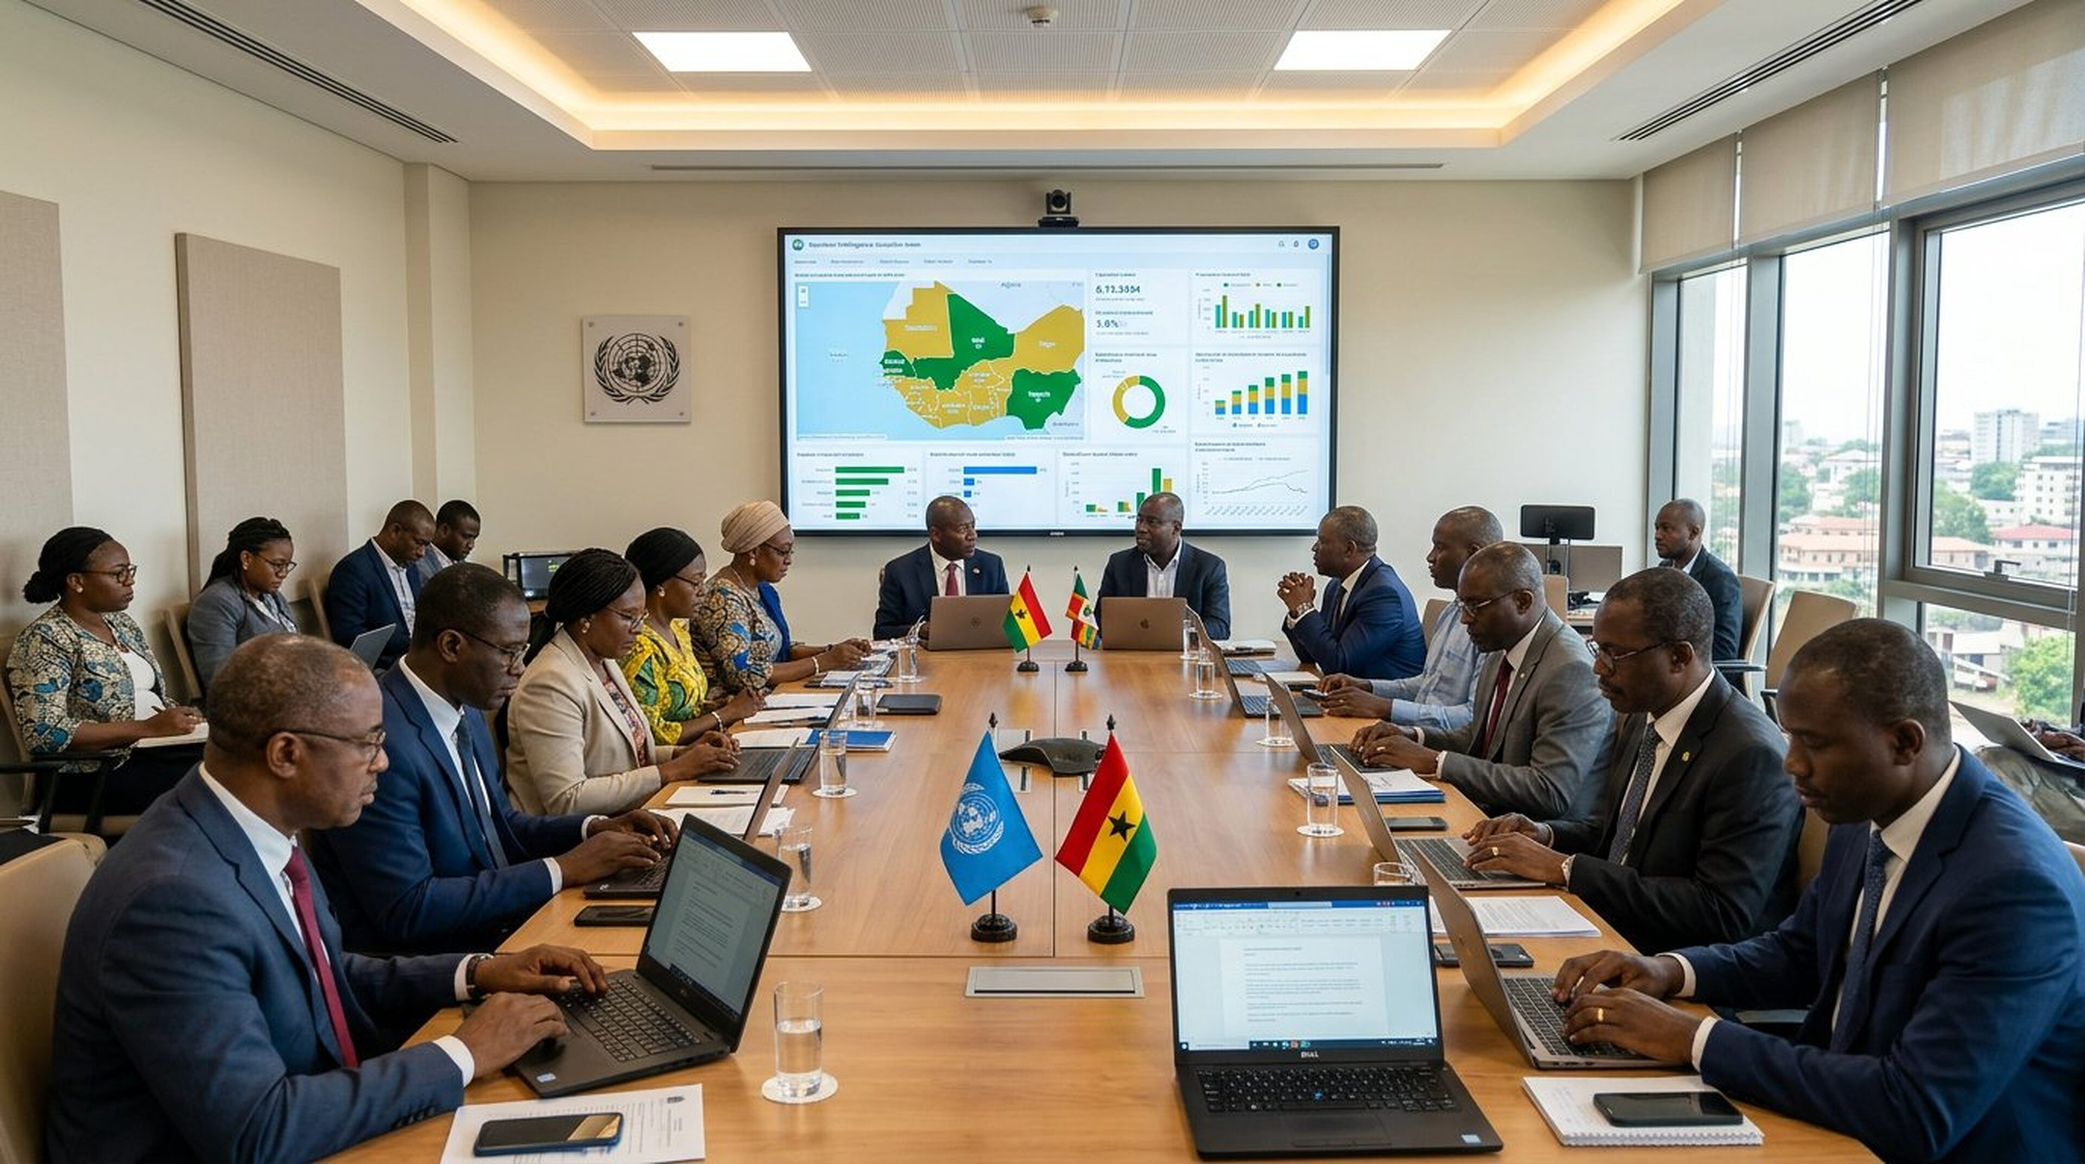
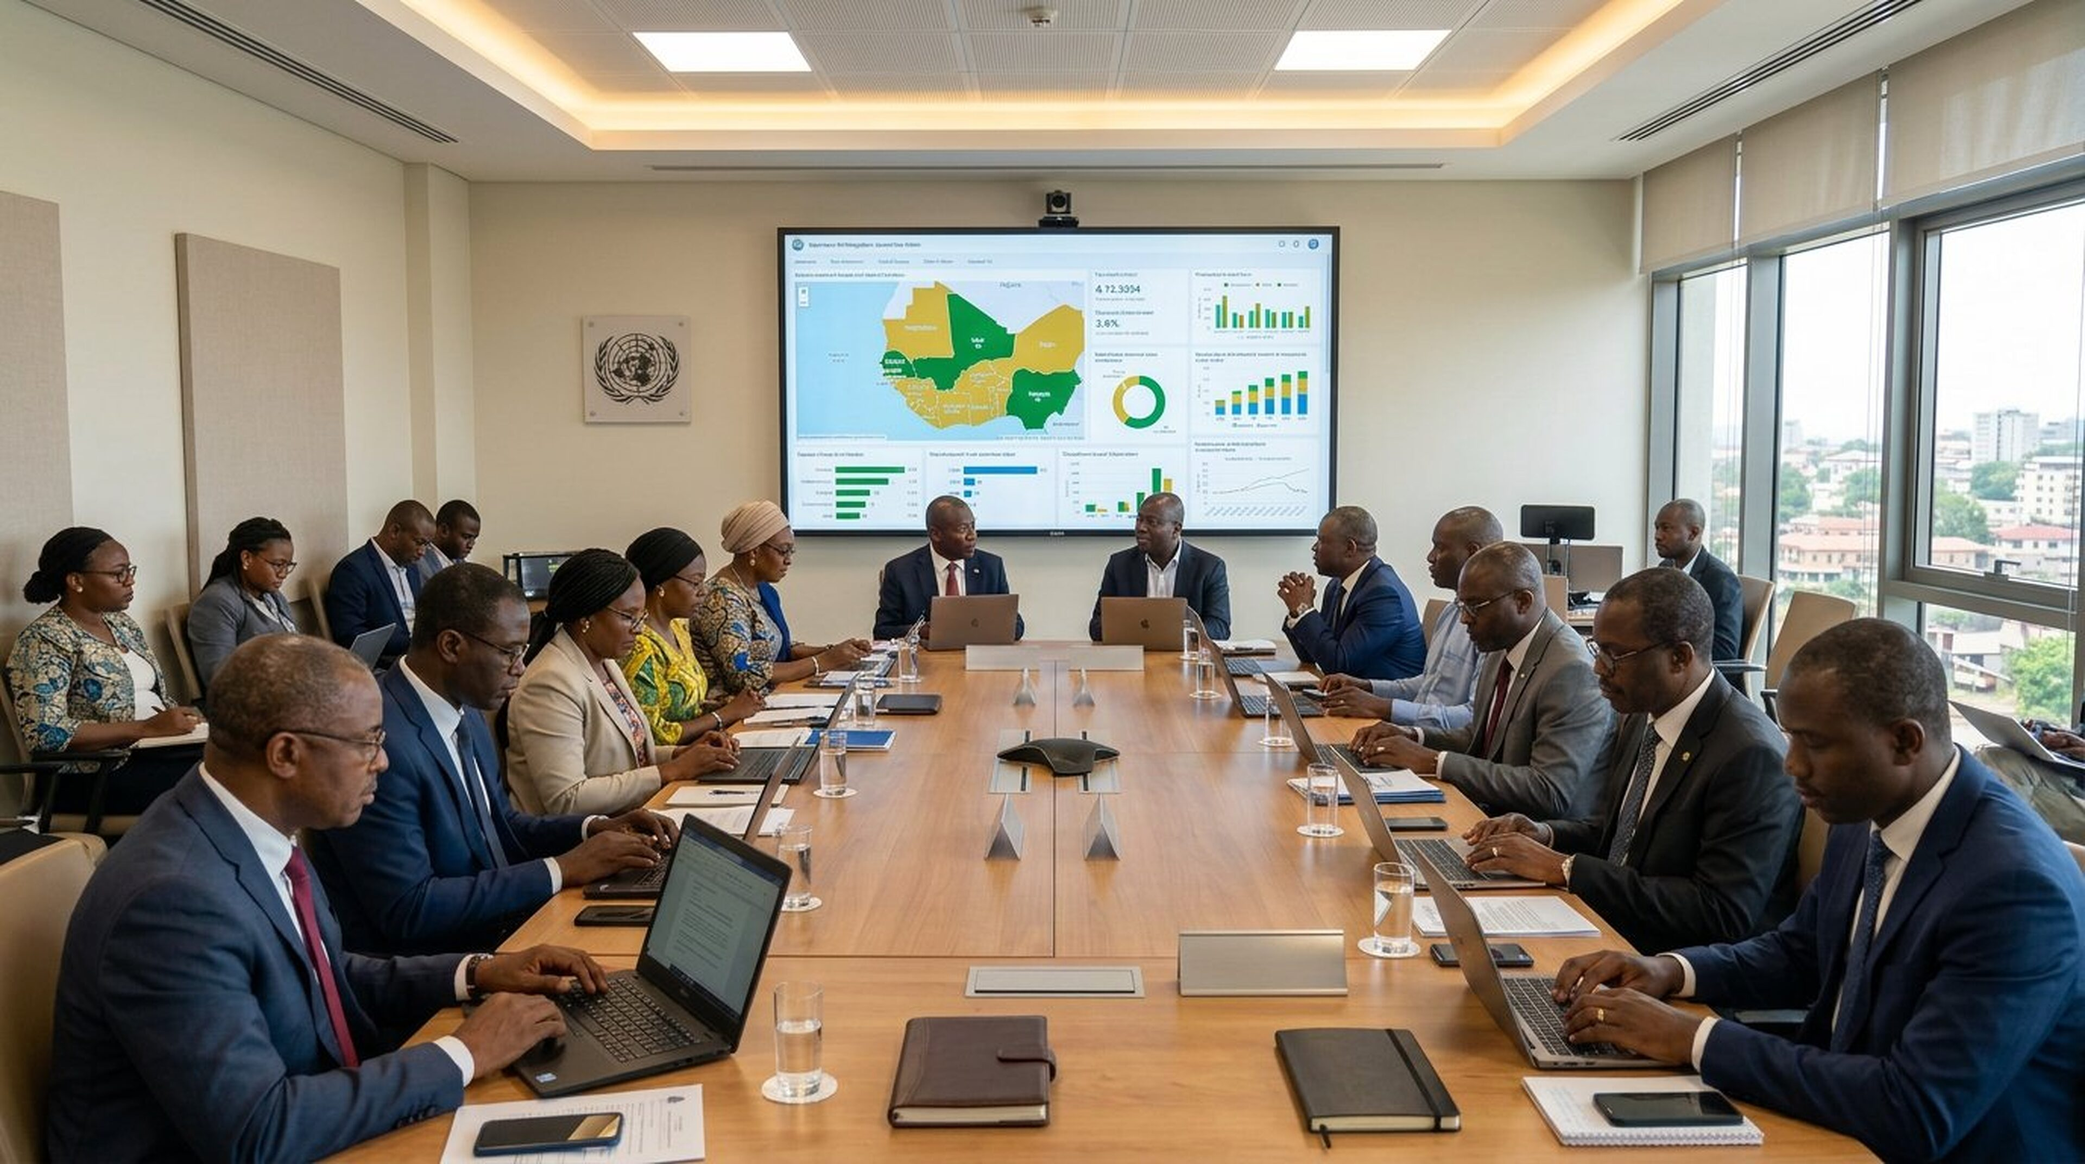
Stakeholders v3: photoreal documentary family (keep AR holograms); governments without any flag
- citizens: regenerated as a true documentary photograph (real skin texture, lived-in kitchen, film grain) keeping the connected-food AR holograms.
- governments: all flags removed via seamless edit of the approved scene (no country mentioned); emblem plaque kept for international organisations.
- Cache busted via ?v=3 (EN+FR), srcset citizens 1408w, alts updated. Text unchanged.

diff --git a/fr/ecosystem.html b/fr/ecosystem.html
@@ -13,6 +13,6 @@ footer{padding:42px 0 22px;background:#04150e;color:#9eb5a9}.foot{display:grid;g
 @media(max-width:900px){.links{display:none}.heroGrid,.cloud,.loop{grid-template-columns:1fr}.art{order:-1;height:420px}.grid,.teamGrid{grid-template-columns:1fr 1fr}.arch{grid-template-columns:1fr}.foot{grid-template-columns:1fr 1fr}}
 @media(max-width:600px){.grid,.teamGrid{grid-template-columns:1fr}.hero{padding:70px 0}.hero h1{font-size:46px}.hero p{font-size:16px}.ring{width:310px;height:310px}.core{width:210px;height:210px}.coreIn{width:135px;height:135px}.sat{display:none}.section{padding:70px 0}.ctaBox{padding:38px 20px}.foot{grid-template-columns:1fr}.copy{flex-direction:column}}
[1 lines of base64/hex data omitted]
-<section class="section dark" id="users"><div class="wrap"><div class="head"><div class="kicker">Acteurs</div><h2>Des besoins différents. Une seule couche de données.</h2></div><div class="grid"><div class="card stake" data-stake="citizens"><figure class="stMedia"><img class="stImg" src="../assets/img/stake-citizens.jpg?v=2" srcset="../assets/img/stake-citizens.jpg?v=2 1376w, ../assets/img/stake-citizens-4k.jpg?v=2 3840w" sizes="(max-width:600px) 92vw, (max-width:900px) 46vw, 380px" alt="Vue photoréaliste d'une famille ouest-africaine partageant un repas équilibré et coloré à la maison, des hologrammes verts au-dessus de chaque plat reliant les aliments à leur application nutritionnelle sur un téléphone." loading="lazy" decoding="async"><span class="stNum" aria-hidden="true"></span><span class="stTag" aria-hidden="true"></span></figure><div class="stBody"><div class="ico">👥</div><h3>Citoyens</h3><p>Individus, parents, familles et enfants avec des parcours nutritionnels personnalisés.</p></div></div><div class="card stake" data-stake="governments"><figure class="stMedia"><img class="stImg" src="../assets/img/stake-governments.jpg?v=2" srcset="../assets/img/stake-governments.jpg?v=2 1376w, ../assets/img/stake-governments-4k.jpg?v=2 3840w" sizes="(max-width:600px) 92vw, (max-width:900px) 46vw, 380px" alt="Vue photoréaliste d'une salle de situation nutritionnelle gouvernementale lumineuse à lumière blanche naturelle, un grand écran de tableaux de bord et des officiels assis avec les drapeaux des Nations Unies et des organisations partenaires." loading="lazy" decoding="async"><span class="stNum" aria-hidden="true"></span><span class="stTag" aria-hidden="true"></span></figure><div class="stBody"><div class="ico">🏛</div><h3>Gouvernements</h3><p>Centre de commandement santé, intelligence agricole et tableaux de bord nutritionnels de la population.</p></div></div><div class="card stake" data-stake="science"><figure class="stMedia"><img class="stImg" src="../assets/img/stake-science.jpg" srcset="../assets/img/stake-science.jpg 1376w, ../assets/img/stake-science-4k.jpg 3840w" sizes="(max-width:600px) 92vw, (max-width:900px) 46vw, 380px" alt="Vue photoréaliste de chercheurs en nutrition étudiant, dans un laboratoire lumineux, un graphe de preuves lumineux reliant aliments, nutriments et résultats de santé." loading="lazy" decoding="async"><span class="stNum" aria-hidden="true"></span><span class="stTag" aria-hidden="true"></span></figure><div class="stBody"><div class="ico">🔬</div><h3>Science</h3><p>Chercheurs, universités et laboratoires connectés aux preuves et aux jeux de données approuvés.</p></div></div><div class="card stake" data-stake="professionals"><figure class="stMedia"><img class="stImg" src="../assets/img/stake-professionals.jpg" srcset="../assets/img/stake-professionals.jpg 1376w, ../assets/img/stake-professionals-4k.jpg 3840w" sizes="(max-width:600px) 92vw, (max-width:900px) 46vw, 380px" alt="Vue photoréaliste d'une nutritionniste en clinique présentant à une patiente un tableau de bord nutritionnel vert sur tablette." loading="lazy" decoding="async"><span class="stNum" aria-hidden="true"></span><span class="stTag" aria-hidden="true"></span></figure><div class="stBody"><div class="ico">🩺</div><h3>Professionnels</h3><p>Nutritionnistes, diététiciens, cliniques et hôpitaux avec accès autorisé aux données des patients.</p></div></div></div></div></section>
+<section class="section dark" id="users"><div class="wrap"><div class="head"><div class="kicker">Acteurs</div><h2>Des besoins différents. Une seule couche de données.</h2></div><div class="grid"><div class="card stake" data-stake="citizens"><figure class="stMedia"><img class="stImg" src="../assets/img/stake-citizens.jpg?v=3" srcset="../assets/img/stake-citizens.jpg?v=3 1408w, ../assets/img/stake-citizens-4k.jpg?v=3 3840w" sizes="(max-width:600px) 92vw, (max-width:900px) 46vw, 380px" alt="Vue photoréaliste d'une famille ouest-africaine partageant un repas équilibré et coloré à la maison, des hologrammes verts au-dessus de chaque plat reliant les aliments à leur application nutritionnelle sur un téléphone." loading="lazy" decoding="async"><span class="stNum" aria-hidden="true"></span><span class="stTag" aria-hidden="true"></span></figure><div class="stBody"><div class="ico">👥</div><h3>Citoyens</h3><p>Individus, parents, familles et enfants avec des parcours nutritionnels personnalisés.</p></div></div><div class="card stake" data-stake="governments"><figure class="stMedia"><img class="stImg" src="../assets/img/stake-governments.jpg?v=3" srcset="../assets/img/stake-governments.jpg?v=3 1376w, ../assets/img/stake-governments-4k.jpg?v=3 3840w" sizes="(max-width:600px) 92vw, (max-width:900px) 46vw, 380px" alt="Vue photoréaliste d'une salle de situation nutritionnelle gouvernementale lumineuse à lumière blanche naturelle, un grand écran de tableaux de bord et des officiels assis aux côtés de partenaires des organisations internationales, une plaque emblème des organisations internationales au mur." loading="lazy" decoding="async"><span class="stNum" aria-hidden="true"></span><span class="stTag" aria-hidden="true"></span></figure><div class="stBody"><div class="ico">🏛</div><h3>Gouvernements</h3><p>Centre de commandement santé, intelligence agricole et tableaux de bord nutritionnels de la population.</p></div></div><div class="card stake" data-stake="science"><figure class="stMedia"><img class="stImg" src="../assets/img/stake-science.jpg" srcset="../assets/img/stake-science.jpg 1376w, ../assets/img/stake-science-4k.jpg 3840w" sizes="(max-width:600px) 92vw, (max-width:900px) 46vw, 380px" alt="Vue photoréaliste de chercheurs en nutrition étudiant, dans un laboratoire lumineux, un graphe de preuves lumineux reliant aliments, nutriments et résultats de santé." loading="lazy" decoding="async"><span class="stNum" aria-hidden="true"></span><span class="stTag" aria-hidden="true"></span></figure><div class="stBody"><div class="ico">🔬</div><h3>Science</h3><p>Chercheurs, universités et laboratoires connectés aux preuves et aux jeux de données approuvés.</p></div></div><div class="card stake" data-stake="professionals"><figure class="stMedia"><img class="stImg" src="../assets/img/stake-professionals.jpg" srcset="../assets/img/stake-professionals.jpg 1376w, ../assets/img/stake-professionals-4k.jpg 3840w" sizes="(max-width:600px) 92vw, (max-width:900px) 46vw, 380px" alt="Vue photoréaliste d'une nutritionniste en clinique présentant à une patiente un tableau de bord nutritionnel vert sur tablette." loading="lazy" decoding="async"><span class="stNum" aria-hidden="true"></span><span class="stTag" aria-hidden="true"></span></figure><div class="stBody"><div class="ico">🩺</div><h3>Professionnels</h3><p>Nutritionnistes, diététiciens, cliniques et hôpitaux avec accès autorisé aux données des patients.</p></div></div></div></div></section>
 <section class="section light"><div class="wrap"><div class="head"><div class="kicker">Intelligence gouvernementale</div><h2>Voir le système alimentaire à l'échelle de la population.</h2></div><div class="grid"><div class="card"><div class="ico">MINISTÈRE DE LA SANTÉ</div><h3>Centre de commandement santé</h3><p>Indicateurs de malnutrition, anémie, diabète, hypertension, obésité, cancer, maladies rénales et cardiovasculaires.</p></div><div class="card"><div class="ico">AGRICULTURE</div><h3>Centre d'intelligence alimentaire</h3><p>Production, consommation, besoins nutritionnels, déficits et analyse géographique.</p></div><div class="card"><div class="ico">SIG</div><h3>Intelligence spatiale</h3><p>Pays → région → district → communauté → établissement ou zone de production.</p></div></div></div></section>
 <section class="section dark"><div class="wrap"><div class="head"><div class="kicker">La confiance dès la conception</div><h2>Accès basé sur les rôles et contrôle au niveau national.</h2><p>L'architecture cible comprend le contrôle d'accès par rôles, la gestion du consentement, la minimisation des données, le chiffrement, les journaux d'audit, la pseudonymisation et l'isolation des environnements.</p></div></div></section><footer><div class="wrap foot"><div><b style="font-size:21px;color:#fff">NUTRI.N°1</b><p style="font-size:12px">Infrastructure africaine de l'intelligence alimentaire et nutritionnelle — évoluant vers une Plateforme durable d'agro-transformation et de nutrition en Afrique de l'Ouest.</p></div><div><h4>Plateforme</h4><a href="platform.html">Nutrition numérique</a><a href="intelligence.html">Base de connaissances alimentaire africaine</a><a href="ecosystem.html">Acteurs</a></div><div><h4>Entreprises</h4><a href="agribusiness.html">Agro-industrie</a><a href="team.html">Équipe</a><a href="index.html#contact">Contact</a></div></div><div class="wrap copy"><span>© 2026 NUTRI.N°1</span><span>Conçue en Afrique de l’Ouest • Pensée pour l’Afrique</span></div></footer><script>const o=new IntersectionObserver(e=>e.forEach(x=>x.isIntersecting&&(x.target.style.opacity=1)),{threshold:.1});document.querySelectorAll(".card,.box,.person,.loopbox").forEach(x=>{x.style.opacity=0;x.style.transition="opacity .7s,transform .7s";o.observe(x)})</script><script src="../assets/nutri4k.js" defer></script></body></html>

diff --git a/ecosystem.html b/ecosystem.html
@@ -42,6 +42,6 @@ display:grid;place-items:center;overflow:hidden;border:1px solid #ffffff15}.v4-a
 @media(max-width:800px){.v4-app,.v4-loop{grid-template-columns:1fr}.v4-orb{min-height:410px}.v4-orbit.o2{width:380px;height:380px}.v4-orbit.o1{width:300px;height:300px}}
 @media(max-width:520px){.v4-orb .planet{width:205px;height:205px}.v4-orb .planet>div{width:130px;height:130px}.v4-africa{font-size:80px}}
[1 lines of base64/hex data omitted]
-<section class="section dark" id="users"><div class="wrap"><div class="head"><div class="kicker">Stakeholders</div><h2>Different needs. One data layer.</h2></div><div class="grid"><div class="card stake v4-reveal" data-stake="citizens"><figure class="stMedia"><img class="stImg" src="assets/img/stake-citizens.jpg?v=2" srcset="assets/img/stake-citizens.jpg?v=2 1376w, assets/img/stake-citizens-4k.jpg?v=2 3840w" sizes="(max-width:600px) 92vw, (max-width:900px) 46vw, 380px" alt="Photorealistic view of a West African family sharing a colourful balanced meal at home while green holograms above each dish connect the foods to their nutrition app on a phone." loading="lazy" decoding="async"><span class="stNum" aria-hidden="true"></span><span class="stTag" aria-hidden="true"></span></figure><div class="stBody"><div class="ico">👥</div><h3>Citizens</h3><p>Individuals, parents, families and children with personalized nutrition journeys.</p></div></div><div class="card stake v4-reveal" data-stake="governments"><figure class="stMedia"><img class="stImg" src="assets/img/stake-governments.jpg?v=2" srcset="assets/img/stake-governments.jpg?v=2 1376w, assets/img/stake-governments-4k.jpg?v=2 3840w" sizes="(max-width:600px) 92vw, (max-width:900px) 46vw, 380px" alt="Photorealistic view of a bright government nutrition situation room with natural white light, a large dashboard screen and officials seated with United Nations and partner organisation flags." loading="lazy" decoding="async"><span class="stNum" aria-hidden="true"></span><span class="stTag" aria-hidden="true"></span></figure><div class="stBody"><div class="ico">🏛</div><h3>Governments</h3><p>Health Command Center, Agriculture Intelligence and population nutrition dashboards.</p></div></div><div class="card stake v4-reveal" data-stake="science"><figure class="stMedia"><img class="stImg" src="assets/img/stake-science.jpg" srcset="assets/img/stake-science.jpg 1376w, assets/img/stake-science-4k.jpg 3840w" sizes="(max-width:600px) 92vw, (max-width:900px) 46vw, 380px" alt="Photorealistic view of nutrition researchers in a bright laboratory studying a glowing evidence graph of foods, nutrients and health outcomes." loading="lazy" decoding="async"><span class="stNum" aria-hidden="true"></span><span class="stTag" aria-hidden="true"></span></figure><div class="stBody"><div class="ico">🔬</div><h3>Science</h3><p>Researchers, universities and laboratories connected to evidence and approved datasets.</p></div></div><div class="card stake v4-reveal" data-stake="professionals"><figure class="stMedia"><img class="stImg" src="assets/img/stake-professionals.jpg" srcset="assets/img/stake-professionals.jpg 1376w, assets/img/stake-professionals-4k.jpg 3840w" sizes="(max-width:600px) 92vw, (max-width:900px) 46vw, 380px" alt="Photorealistic view of a nutritionist in a clinic reviewing a green patient nutrition dashboard on a tablet with a patient." loading="lazy" decoding="async"><span class="stNum" aria-hidden="true"></span><span class="stTag" aria-hidden="true"></span></figure><div class="stBody"><div class="ico">🩺</div><h3>Professionals</h3><p>Nutritionists, dietitians, clinics and hospitals with authorized patient access.</p></div></div></div></div></section>
+<section class="section dark" id="users"><div class="wrap"><div class="head"><div class="kicker">Stakeholders</div><h2>Different needs. One data layer.</h2></div><div class="grid"><div class="card stake v4-reveal" data-stake="citizens"><figure class="stMedia"><img class="stImg" src="assets/img/stake-citizens.jpg?v=3" srcset="assets/img/stake-citizens.jpg?v=3 1408w, assets/img/stake-citizens-4k.jpg?v=3 3840w" sizes="(max-width:600px) 92vw, (max-width:900px) 46vw, 380px" alt="Photorealistic view of a West African family sharing a colourful balanced meal at home while green holograms above each dish connect the foods to their nutrition app on a phone." loading="lazy" decoding="async"><span class="stNum" aria-hidden="true"></span><span class="stTag" aria-hidden="true"></span></figure><div class="stBody"><div class="ico">👥</div><h3>Citizens</h3><p>Individuals, parents, families and children with personalized nutrition journeys.</p></div></div><div class="card stake v4-reveal" data-stake="governments"><figure class="stMedia"><img class="stImg" src="assets/img/stake-governments.jpg?v=3" srcset="assets/img/stake-governments.jpg?v=3 1376w, assets/img/stake-governments-4k.jpg?v=3 3840w" sizes="(max-width:600px) 92vw, (max-width:900px) 46vw, 380px" alt="Photorealistic view of a bright government nutrition situation room with natural white light, a large dashboard screen and officials seated alongside international organisation partners, an international organisations emblem plaque on the wall." loading="lazy" decoding="async"><span class="stNum" aria-hidden="true"></span><span class="stTag" aria-hidden="true"></span></figure><div class="stBody"><div class="ico">🏛</div><h3>Governments</h3><p>Health Command Center, Agriculture Intelligence and population nutrition dashboards.</p></div></div><div class="card stake v4-reveal" data-stake="science"><figure class="stMedia"><img class="stImg" src="assets/img/stake-science.jpg" srcset="assets/img/stake-science.jpg 1376w, assets/img/stake-science-4k.jpg 3840w" sizes="(max-width:600px) 92vw, (max-width:900px) 46vw, 380px" alt="Photorealistic view of nutrition researchers in a bright laboratory studying a glowing evidence graph of foods, nutrients and health outcomes." loading="lazy" decoding="async"><span class="stNum" aria-hidden="true"></span><span class="stTag" aria-hidden="true"></span></figure><div class="stBody"><div class="ico">🔬</div><h3>Science</h3><p>Researchers, universities and laboratories connected to evidence and approved datasets.</p></div></div><div class="card stake v4-reveal" data-stake="professionals"><figure class="stMedia"><img class="stImg" src="assets/img/stake-professionals.jpg" srcset="assets/img/stake-professionals.jpg 1376w, assets/img/stake-professionals-4k.jpg 3840w" sizes="(max-width:600px) 92vw, (max-width:900px) 46vw, 380px" alt="Photorealistic view of a nutritionist in a clinic reviewing a green patient nutrition dashboard on a tablet with a patient." loading="lazy" decoding="async"><span class="stNum" aria-hidden="true"></span><span class="stTag" aria-hidden="true"></span></figure><div class="stBody"><div class="ico">🩺</div><h3>Professionals</h3><p>Nutritionists, dietitians, clinics and hospitals with authorized patient access.</p></div></div></div></div></section>
 <section class="section light"><div class="wrap"><div class="head"><div class="kicker">Government Intelligence</div><h2>See the food system at population scale.</h2></div><div class="grid"><div class="card v4-reveal"><div class="ico">MOH</div><h3>Health Command Center</h3><p>Malnutrition, anemia, diabetes, hypertension, obesity, cancer, renal and cardiovascular indicators.</p></div><div class="card v4-reveal"><div class="ico">AGR</div><h3>Food Intelligence Center</h3><p>Production, consumption, nutrition needs, gaps and geographic analysis.</p></div><div class="card v4-reveal"><div class="ico">GIS</div><h3>Spatial Intelligence</h3><p>Country → region → district → community → facility or production area.</p></div></div></div></section>
 <section class="section dark"><div class="wrap"><div class="head"><div class="kicker">Trust by design</div><h2>Role-based access and country-level control.</h2><p>The target architecture includes RBAC, consent management, data minimization, encryption, audit logs, pseudonymization and tenant isolation.</p></div></div></section><footer><div class="wrap foot"><div><b style="font-size:21px;color:#fff">NUTRI.N°1</b><p style="font-size:12px">Africa's Food & Nutrition Intelligence Infrastructure — evolving into a Sustainable Agro-Processing & Nutrition Platform in West Africa.</p></div><div><h4>Platform</h4><a href="platform.html">Digital Nutrition</a><a href="intelligence.html">African Food Cloud</a><a href="ecosystem.html">Stakeholders</a></div><div><h4>Company</h4><a href="agribusiness.html">Agri-business</a><a href="team.html">Team</a><a href="index.html#contact">Contact</a></div></div><div class="wrap copy"><span>© 2026 NUTRI.N°1</span><span>Built in West Africa • Designed for Africa</span></div></footer><script>const o=new IntersectionObserver(e=>e.forEach(x=>x.isIntersecting&&(x.target.style.opacity=1)),{threshold:.1});document.querySelectorAll(".card,.box,.person,.loopbox").forEach(x=>{x.style.opacity=0;x.style.transition="opacity .7s,transform .7s";o.observe(x)})</script><script src="assets/nutri4k.js" defer></script></body></html>
